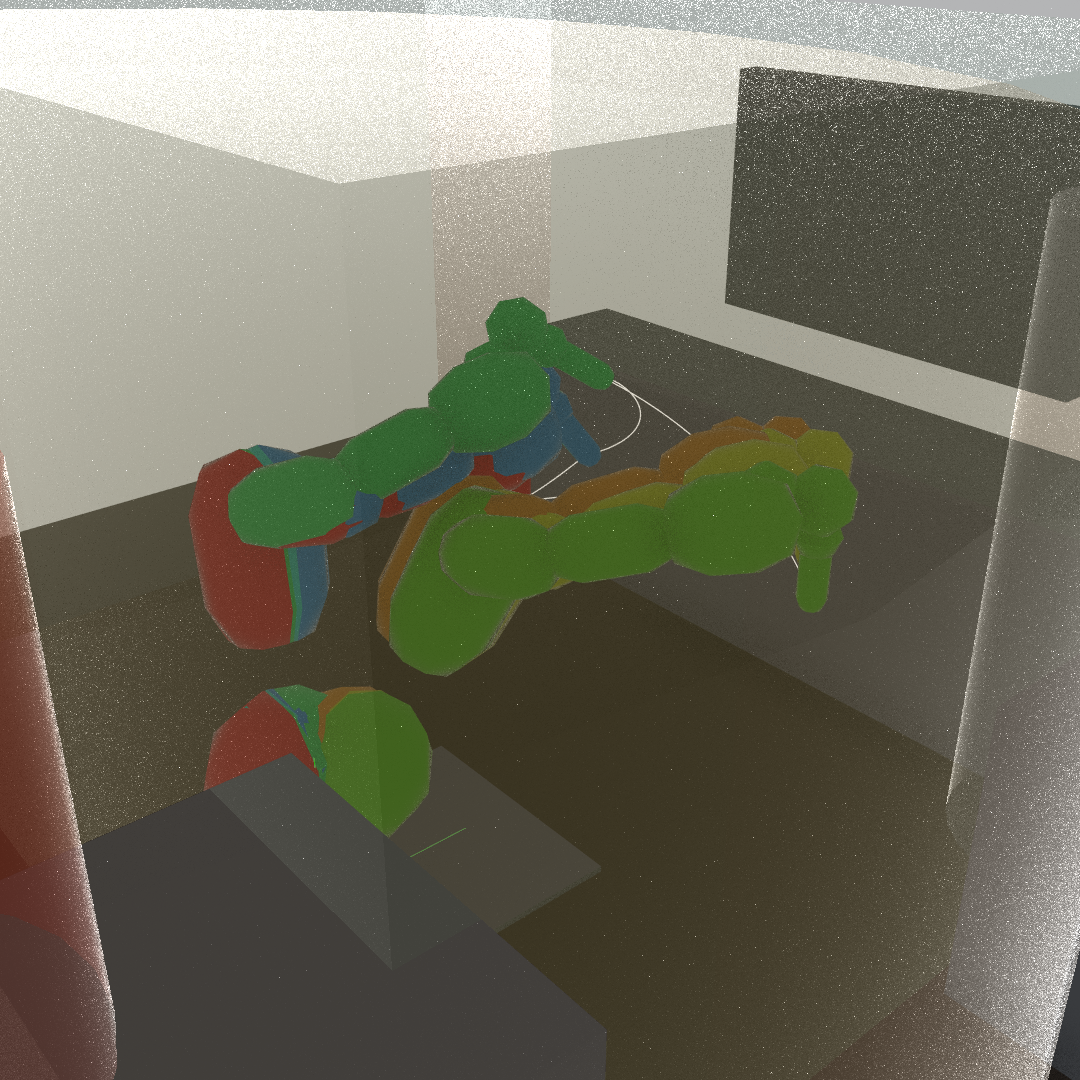
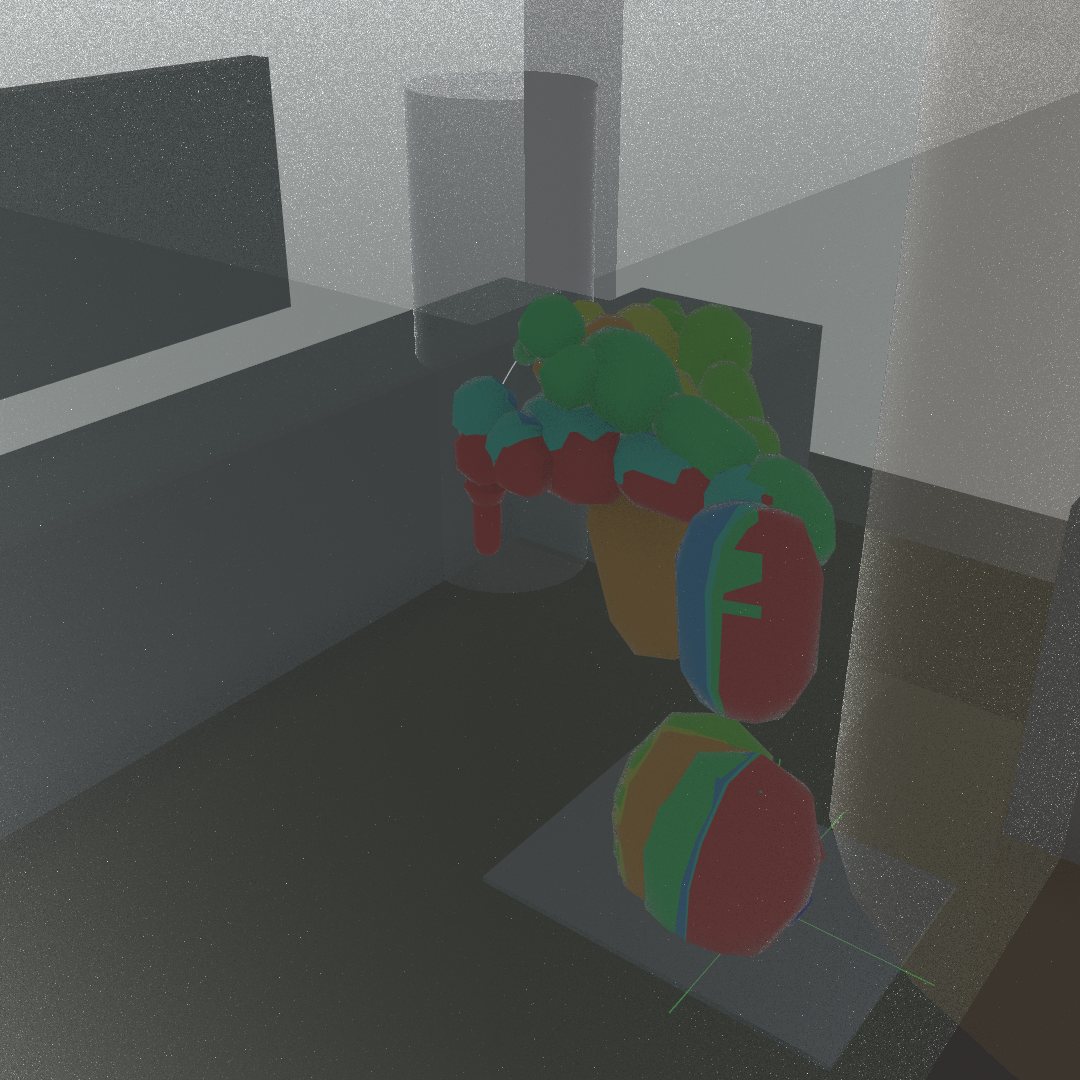
Docs: the cell, dance phrases, retargeting; hardware test checklist; previews
README: the cell (roles, capsules, touch-off measurement, where it is
checked), dance phrases and labels (Effort mapping, physics limits, label
agreement), person-to-arm retargeting; Pre-Flight table gains Robot
playback and Cell; accel_probe in the player table.
IMPLEMENTATION_PLAN: Stage 2b (cell) complete in software, room still an
estimate; Stage 3 status and open items.
docs/hardware_test_plan.md: tomorrow's hardware steps (check, measure the
room, acceleration probe, clips at 0.3 -> 1.0, OAK-D).
Cell capsules coloured by each object's own margin; previews re-rendered.

diff --git a/scripts/cell_sop.py b/scripts/cell_sop.py
@@ -238,15 +238,15 @@ def capsule_geo(node, frame=None):
     hard = [o for o in cell.get("objects", []) if o["role"] in ("obstacle", "keep_out")]
     worst, nearest = math.inf, ""
     for name, a, b, r in caps:
-        if name in CL.FIXED_LINKS:
-            d = math.inf
-        else:
-            d = min([CL.capsule_distance(o, a, b, r) for o in hard] or [math.inf])
+        slack = math.inf                      # clearance beyond each object's own margin
+        if name not in CL.FIXED_LINKS:
             for o in hard:
                 dd = CL.capsule_distance(o, a, b, r)
+                m = o.get("margin_m", margin) if o["role"] == "obstacle" else 0.0
+                slack = min(slack, dd - m)
                 if dd < worst:
                     worst, nearest = dd, "%s to %s" % (name, o["name"])
-        _capsule_mesh(geo, a, b, r, _clear_colour(d, margin) if d < math.inf else (0.7, 0.7, 0.75), name)
+        _capsule_mesh(geo, a, b, r, _clear_colour(slack, 0.0) if slack < math.inf else (0.7, 0.7, 0.75), name)
     geo.addAttrib(hou.attribType.Global, "min_clearance_m", 0.0)
     geo.setGlobalAttribValue("min_clearance_m", worst if worst < math.inf else -1.0)
     geo.addAttrib(hou.attribType.Global, "nearest", "")

diff --git a/scripts/render_previews.py b/scripts/render_previews.py
@@ -281,11 +281,11 @@ def cell_pictures():
     end = hou.playbar.frameRange()[1]
     if ONLY == "cell_overview":
         hou.setFrame(int(end * 0.45))
-        cam = _camera("c_cell", (2.2, 3.4, -2.4), (-0.7, 0.75, 0.1), res=(1080, 1080))
+        cam = _camera("c_cell", (1.6, 3.2, 2.6), (-0.7, 0.75, 0.0), res=(1080, 1080))
         _render(cam, OUT + "/cell_overview.png", ["/obj/cell_env", "/obj/fr20", "/obj/capsules"])
     else:
         hou.setFrame(1)
-        cam = _camera("c_ghost", (1.4, 2.6, -2.6), (-0.8, 0.9, 0.0), res=(1080, 1080))
+        cam = _camera("c_ghost", (1.2, 2.6, 2.6), (-0.8, 0.9, 0.0), res=(1080, 1080))
         _render(cam, OUT + "/cell_ghosts.png", ["/obj/cell_env", "/obj/ghosts"])
 
 

diff --git a/README.md b/README.md
@@ -20,6 +20,9 @@ names — see [Profiles drive the asset](#profiles-drive-the-asset).
 | `assets/fbx/` | Source geometry |
 | `assets/fairino_description/` | FR20 URDF and link STLs, copied unmodified from FAIR-INNOVATION/frcobot_ros2 (`fairino_description/`), which declares no license; the asset reads `urdf/fairino20_v6.urdf` and `meshes/fairino20_v6/*.STL` |
 | `tests/csv/` | Reference fixtures for export/import validation |
+| `tests/clips/` | Sample clips (JSON) from the dance factory |
+| `tests/keypoints/` | A keypoint take (the retargeting input format) |
+| `envs/` | Cells the robot works in: obstacles, keep-out / slow / work zones |
 | `docs/images/` | Pictures the README shows |
 | `docs/` | Design notes |
 | `geo/` | IK solve cache — gitignored, regenerate with **Clear and Recache** |
@@ -366,14 +369,120 @@ hython scripts/build_factory_scene.py --cook
 
 builds `scenes/FR20_clip_factory.hiplc` and runs its TOP network: a Wedge of
 50 variants, one out-of-process Python work item each (18 s for all 50),
-then the manifest in `geo/clips/manifest.json`. Last run: 30 ok, 16
-unreachable with their tool direction, 4 branch flips.
+then the manifest in `geo/clips/manifest.json`. Last run (with the cell
+check): 20 ok; 14 unreachable with their tool direction, 11 upper arm too
+close to the floor / base plate, 3 too fast in the operator's slow zone, 2
+outside the stage.
 
 `hython scripts/render_previews.py` renders pictures of both into
 `docs/images/previews/`: the atlas from the side and from above, every
 variant's path around the robot, and a sheet of the ok clips.
 
 ![Clip library](docs/images/previews/clips_sheet.png)
+
+## The cell: collision and safety zones (real2sim)
+
+The robot works in a room, so every clip is checked against it.
+`envs/volvox_lab.json` (schema `motionlab.env/1`) lists the room's shapes
+in the robot base frame (URDF, Z up; the arm's working front is -X), each
+with a role:
+
+| Role | Rule |
+|---|---|
+| `obstacle` | no link or tool within the env's `margin_m` (per object `margin_m` overrides; the base plate: 0) |
+| `keep_out` | no link inside at all -- where the operator stands |
+| `slow` | inside it the TCP may not exceed `tcp_speed_mps` (ISO/TS 15066-style) |
+| `work` | the TCP must stay inside -- the stage |
+
+`scripts/collision.py` models FR20 as capsules fitted to its URDF meshes
+(1-3 per link, every vertex inside; a tool capsule from the asset's tool
+offset), with exact capsule-vs-shape clearance and self-collision on the
+link pairs MoveIt's SRDF rules would keep. The capsules are conservative:
+round the wrist the real flange-to-forearm gap is ~3 cm larger than they
+say, and a quarter of the configurations they flag there are within 1 cm
+on the real meshes -- the wrist folding back is a real hazard.
+
+**The room file is an estimate from one photo.** Measure it with the arm
+itself: hand-guide the tool tip onto points and record them (read-only,
+never moves the robot), then fit shapes:
+
+```
+python scripts/probe_env.py --ip IP          # prompt: wall_tv:plane, control_cart:box, operator:cylinder ...
+python scripts/env_from_points.py envs/volvox_lab_points.json
+```
+
+On SimMachine the probe's TCP (this toolkit's URDF FK) agrees with the
+controller's own to 0.004 mm. Planes need 3+ points, boxes their top
+corners (min-area yaw), cylinders 3+ points round the foot (least-squares
+circle); an existing object keeps its role and note, and the change is
+printed.
+
+Where it is used: **Pre-Flight's Cell check** (the asset's Setup > Cell
+Environment, default `$HIP/../envs/volvox_lab.json`; UF850: not applicable,
+no URDF), both clip factories, the dance generator and retargeting, and
+`scenes/FR20_cell.hiplc` (`hython scripts/build_cell_scene.py`): the room
+by role, the FR20 playing any clip CSV / JSON (`/obj/CELL_CTRL`), its
+capsules coloured by clearance, and an onion-skin view of a whole phrase
+(`/obj/ghosts`).
+
+![The cell](docs/images/previews/cell_overview.png)
+
+## Dance phrases and labels
+
+`scripts/choreo.py` writes phrases in Laban's Effort vocabulary. Each bar
+names an action -- punch, slash, press, wring, dab, flick, glide, float --
+and the four Effort axes shape how it moves:
+
+| Axis | Robot |
+|---|---|
+| Weight (strong / light) | which joints lead: whole arm (J1-J3, far kinesphere reaches) vs wrist (J4-J6, near the body) |
+| Time (sudden / sustained) | attack sharpness and tempo |
+| Space (direct / indirect) | detours and wandering harmonics |
+| Flow (bound / free) | held beats between moves vs overlapping, breathing moves |
+
+Moves: kinesphere travels by IK (level x direction x reach, tool aimed out,
+down, up or at the audience), sudden jabs, proximal / distal travelling
+waves, sway, bounce, twist, look, hold. Phrases stay on the beat grid: a
+travel takes the fewest beats its distance allows at the joint limits, and
+oscillation amplitudes are capped by a / w^2. At FR20's 150 deg/s^2 a big
+move cannot be quick, so a sudden move is a short jab; with a measured,
+higher limit (`Kin(acc=...)`, see `accel_probe.py`) jabs grow with it -- at
+450 a punch phrase reaches 1.3 m/s instead of 0.6. Every phrase starts and
+ends at rest in HOME, plays at its own speed and clears the cell.
+
+`scripts/motion_labels.py` measures the efforts back from any clip --
+proximal joint speed, acceleration over speed, TCP stroke directness,
+stillness -- the nearest action per clip and per bar, and descriptors
+(level, direction from the robot's own view, dominant joints, accents,
+loopable, start / end pose) and tags. Intent and measurement are both kept:
+all 8 single-action phrases order their efforts as intended (6/6 pairs),
+7/8 measure as their action; per bar 66/127 (short bars are noisy, and a
+sustained wave's acceleration / speed is its frequency, so float reads as
+flick).
+
+`/obj/dance` in `scenes/FR20_clip_factory.hiplc` makes 48 phrases in PDG
+(each action alone, contrasting pairs AB / ABA, random mixes: 42 s, all
+clear of the lab); `tests/clips/` and `tests/csv/dance_*.csv` hold three to
+play on the arm.
+
+![Dance phrases](docs/images/previews/dance_sheet.png)
+
+## From a person to the arm
+
+`scripts/retarget.py` takes one arm's 3D keypoints per frame
+(`motionlab.keypoints/1`, template in `tests/keypoints/`) -- an OAK-D
+body-pose capture, a BVH export, AIST++ dance data:
+
+- **direct** -- the wrist's motion 1:1 in metres in front of the robot, the
+  tool pointing outward from the shoulder (or along the smoothed forearm);
+  shrunk, then slowed, until FR20 can play it. Slow sweeps keep their size
+  and tempo (TCP within 3 mm of the target path); human-speed jabs fit only
+  at half size and 1.7x slower, and lose their punch.
+- **effort** -- the performer's Laban efforts per 2 s window, relative to
+  the take, become a choreo.py phrase: a style transfer that keeps the
+  qualities (the jabs read as punch) instead of the geometry.
+
+Smooth first: 2 mm of tracker jitter read as 9 m/s^2 at the TCP.
 
 ## Playback on a Fairino arm
 
@@ -408,6 +517,7 @@ runs:
 | `--check --ip IP` | no | controller model / version / errors, current pose, FK vs the URDF |
 | `clip.csv --hardware --ip IP --goto-start` | MoveJ only | reach the clip's first pose |
 | `--hardware --ip IP --wiggle 6 5 4 2` | small | J6 +5° and back, 4 s, twice, from the current pose |
+| `accel_probe.py --hardware --ip IP --joint 6 --amp 3` | small | J6 out and back at rising peak acceleration; the last level that tracks cleanly |
 | `clip.csv --hardware --ip IP --speed 0.3 --record actual.csv` | yes | play, and record the actual joints |
 
 Every move names its target, `--sim` or `--hardware`. Speed defaults to 30 %
@@ -516,6 +626,8 @@ validates exactly what ships.
 | Angle continuity — any step over 180° | **FAIL** |
 | Unwrap enabled | **FAIL** |
 | Joint velocity vs profile max | **FAIL** |
+| Robot playback: the player would slow the clip (acceleration) | **FAIL** |
+| Cell: a link or the tool within an obstacle's margin, inside a keep-out zone, the TCP too fast in a slow zone or outside the work zone (Setup > Cell Environment) | **FAIL** |
 | Wrist branch resolved | warn |
 | Frame range vs playbar | warn |
 | Tracking residual vs tolerance | warn |

diff --git a/docs/hardware_test_plan.md b/docs/hardware_test_plan.md
@@ -1,0 +1,131 @@
+# 真机测试清单（FR20）
+
+目标：用真机把软件里的三个假设换成实测，再用新数值重跑生成器。
+每一步都会让机械臂动的，先确认：工作区清空、手在急停上、WebUI 全局速度已知。
+
+命令里的 `192.168.58.2` 是法奥出厂默认 IP，换成你真机的。所有命令在仓库根目录运行。先把分支拉到最新，跑一遍自测：
+
+```bash
+python scripts/fairino_player.py --self-test
+```
+
+```bash
+python scripts/collision.py
+```
+
+---
+
+## 1. 连接检查（不动）
+
+```bash
+python scripts/fairino_player.py --check --hardware --ip 192.168.58.2
+```
+
+看型号、错误码、当前关节、FK 与 URDF 是否一致。IP 换成真机的。
+
+## 2. 测量现场（不动，拖动示教）
+
+`envs/volvox_lab.json` 现在是**照片估计**的，而且朝向是假设的：假设机械臂的正前方（J1=0 时手臂伸出的方向，URDF −X）朝向电视墙。先用机械臂本身把房间量出来：
+
+1. WebUI 打开拖动示教（手引导）。
+2. 运行探点工具，把工具尖端贴到点上，在提示处输入名字回车；输 `u` 撤销，`q` 退出：
+
+```bash
+python scripts/probe_env.py --ip 192.168.58.2 --tool-len 0.0
+```
+
+建议点位（名字:类型）：
+
+| 名字 | 点 |
+|---|---|
+| `floor:plane` | 地面 3 个点，散开 |
+| `wall_tv:plane` | 电视墙 3 个点 |
+| `partition_left:plane` | 左侧隔断 3 个点 |
+| `control_cart:box` | 红色小车台面 4 个角 |
+| `operator:cylinder` | 操作员站位的地面，绕一圈 4–5 个点 |
+| `stage:point` | 表演区域的几个角，仅作参考 |
+
+装了工具就用 `--tool-len` 填工具长度（米），否则按法兰面计算。
+
+3. 拟合，更新环境文件（旧的存为 `.bak`，会打印每个物体被移动了多少）：
+
+```bash
+python scripts/env_from_points.py envs/volvox_lab_points.json
+```
+
+4. 在 Houdini 里打开 `scenes/FR20_cell.hiplc` 看房间对不对，或者重新出图：
+
+```bash
+hython scripts/render_previews.py --only=cell_overview
+```
+
+## 3. 测加速度上限（会动，小幅）
+
+现在所有规划都用 150 deg/s²，这是手册里 20–25 kg 扩展负载的值。空载时大概率能更高，这个数值决定舞蹈能有多"快"：
+
+- 在 150 下，大幅动作不可能快，所以"突然"的动作只能是 7–10° 的小刺；
+- 在 450 下，同样的 punch 段落 TCP 速度从 0.6 m/s 提到 1.3 m/s。
+
+从最轻的 J6 开始，小幅度，逐级加速，每一级都会询问：
+
+```bash
+python scripts/accel_probe.py --hardware --ip 192.168.58.2 --joint 6 --amp 3 --report accel_j6.json
+```
+
+然后依次测 J5、J4，最后 J1–J3（幅度改成 2°）：
+
+```bash
+python scripts/accel_probe.py --hardware --ip 192.168.58.2 --joint 2 --amp 2 --levels 150 225 300 450 --report accel_j2.json
+```
+
+记下每个关节"clean up to"的值。把 `profiles/fr20.json` 的 `robot.max_acceleration_deg_s2` 改成每关节一个数，取干净上限的约 70%。然后重跑舞蹈工厂：
+
+```bash
+hython scripts/build_factory_scene.py --cook-dance
+```
+
+## 4. 播放片段（会动）
+
+每个片段先 0.3，再 0.6，最后 1.0，都带 record。播放器默认速度就是 0.3：
+
+| 片段 | 内容 |
+|---|---|
+| `tests/csv/fr20_test.csv` | 你的曲线，retime 后 18 s |
+| `tests/csv/dance_d01_punch-punch.csv` | 单一动作：punch |
+| `tests/csv/dance_d17_punch-float-punch.csv` | 对比段落 ABA |
+| `tests/csv/dance_d32_float-slash-press-float.csv` | 四小节混合，38 s |
+
+```bash
+python scripts/fairino_player.py tests/csv/dance_d17_punch-float-punch.csv --hardware --ip 192.168.58.2 --speed 0.3 --record actual_d17.csv
+```
+
+看报告里的 `tracking_after_lag_max_deg` 和 `controller_error_after`。播放前 Houdini 的 Pre-Flight 已包含 Cell 检查；但现场量过之前，那个检查只基于估计的房间。
+
+## 5. 可见的 wiggle
+
+J6 转 5° 几乎看不出。想确认链路，用 J1 转 3°（整条手臂会摆）：
+
+```bash
+python scripts/fairino_player.py --hardware --ip 192.168.58.2 --wiggle 1 3 4 1
+```
+
+日志会写 `wiggle: J1 moved 3.00 deg`。
+
+## 6. OAK-D（如果带了）
+
+1. 格式：`tests/keypoints/synthetic_float_punch_float.json`。每帧一只手臂的肩、肘、腕（可选：手）三维点，单位米，坐标是表演者自己的方向（x 前、y 左、z 上）。
+2. 采集：告诉我相机型号和能不能 `pip install depthai`，我写采集脚本（人体姿态加深度，输出这个格式）。
+3. 转成机械臂片段，两种方法都会做碰撞检查和标注：
+   - `direct`：照搬轨迹，慢的动作能 1:1；
+   - `effort`：只保留 Laban 动态特征，快动作用这个。
+
+```bash
+python -c "import sys,json; sys.path.insert(0,'scripts'); import retarget as R, motion_clip as M, collision as C; kp=json.load(open('take.json')); env=C.load_env('envs/volvox_lab.json'); c=R.effort(kp, env); M.save(c,'take_effort.json'); M.to_csv(c,'take_effort.csv'); print(c['safety'], c['labels']['sequence'])"
+```
+
+## 记录
+
+每一步的报告 JSON 和 `actual_*.csv` 留着，明天发给我。尤其是：
+
+- `accel_*.json`：决定新的加速度上限；
+- `envs/volvox_lab_points.json`：房间的实测点。

diff --git a/IMPLEMENTATION_PLAN.md b/IMPLEMENTATION_PLAN.md
@@ -101,30 +101,46 @@ both test scripts pass. Next: sample the atlas on robot_arm's goal curve
 (colour the curve by headroom before solving); Capability mode bake timing;
 finer voxels; tool length from the asset's tool.
 
+## Stage 2b: The cell -- real2sim, collision, safety zones
+**Goal**: The room the robot works in, in the robot base frame, checked on
+every clip: obstacles with a margin, keep-out / slow / work zones; the arm
+as capsules from its URDF meshes; measured with the arm itself.
+**Success Criteria**: Every mesh vertex inside its capsule; capsule-box
+clearance matches brute force; floor, self-collision, obstacle, slow and
+work-zone cases caught; Pre-Flight fails a clip that hits the cell;
+touch-off points agree with the controller's TCP; the cell in Houdini.
+**Tests**: `python scripts/collision.py`, `python scripts/env_from_points.py
+--self-test`; hython: Pre-Flight on FR20 (clear), with a crate on the path
+(FAIL at frame 101), UF850 (not applicable).
+**Status**: Complete in software -- all of the above pass; probe vs
+controller TCP 0.004 mm on SimMachine; `scenes/FR20_cell.hiplc`. The room
+(`envs/volvox_lab.json`) is still an ESTIMATE from one photo, and its
+orientation (the arm's front towards the TV wall) is assumed: measure it
+with `probe_env.py` on the real arm. OAK-D point clouds as an obstacle
+source: not started.
+
 ## Stage 3: Motion clip contract + PDG factory
 **Goal**: A clip format (JointTrajectory-shaped JSON: times, joint positions,
-TCP path, style parameters, metadata — spatial bounds, duration, tags,
-safety), jerk-limited time parameterisation with Ruckig against the FR20
-limits, and a PDG network: wedge primitives × style parameters → Stage 1
-solve → filter by Stage 2 fields → write clips and a library manifest.
+TCP path, style parameters, metadata -- spatial bounds, duration, tags,
+safety), clips made in PDG from primitives and from Laban-driven dance
+phrases, labelled by measurement, checked against the robot and the cell;
+people's motion brought in.
 **Success Criteria**: A 50-variant wedge produces valid clips; every clip
-stays within the velocity / acceleration / jerk limits; the manifest lists
-rejected variants with the reason.
-**Tests**: Schema validation; limit check on every clip; round-trip clip →
-Houdini import → same poses.
-**Status**: In Progress — `scripts/motion_clip.py` (schema, from_csv /
-to_csv, validate, safety measured as the player plays it, jerk where the
-profile has a limit: UF850 28647 deg/s^3 from UFACTORY, FR20 none
-published; manifest) and `scripts/clip_factory.py` (primitive x style ->
-Stage 2 measures -> continuous IK -> the Retime pipeline -> clip) pass
-their tests. `scenes/FR20_clip_factory.hiplc` (built by
-`build_factory_scene.py`): 50 variants in 18 s in parallel (76 s serial),
-manifest 30 ok / 20 rejected (16 unreachable with their tool direction, 4
-branch flips); all 30 ok clips dry-run at time scale 1.0 in the player.
-Found on the way: CSV times written with 4 decimals jittered the player's
-accelerations (one clip read x1.027) -- the player now snaps fixed-rate
-times. Open: Ruckig (a new dependency -- ask first), the Houdini import
-round-trip, filtering with the baked atlas instead of direct measures.
+stays within the velocity / acceleration (/ jerk where known) limits and
+clears the cell; the manifest lists rejected variants with the reason;
+measured labels agree with the generator's intent on single-action
+phrases; a keypoint take becomes a playable clip.
+**Tests**: `python scripts/motion_clip.py`, `clip_factory.py`, `choreo.py`,
+`retarget.py`; `hython scripts/build_factory_scene.py --cook`.
+**Status**: In Progress -- clip contract, primitive factory (20/50 ok: 14
+unreachable, 16 cell), dance factory (48/48 ok, 42 s in PDG), measured
+labels (6/6 effort orderings, 7/8 actions per clip, 66/127 per bar), human
+retargeting (direct and effort) all pass their tests; every dance and
+factory clip dry-runs at time scale 1.0. Open: Ruckig (a new dependency,
+ask first); FR20 jerk limit unknown; the real acceleration limit
+(`accel_probe.py` on hardware) -- it decides how dynamic phrases can be;
+per-bar label accuracy; an OAK-D capture script; the Houdini import
+round-trip of a clip.
 
 ## Stage 4: ROS 2 validation service
 **Goal**: A container (ROS 2 Jazzy + MoveIt 2) with an FR20 MoveIt config
